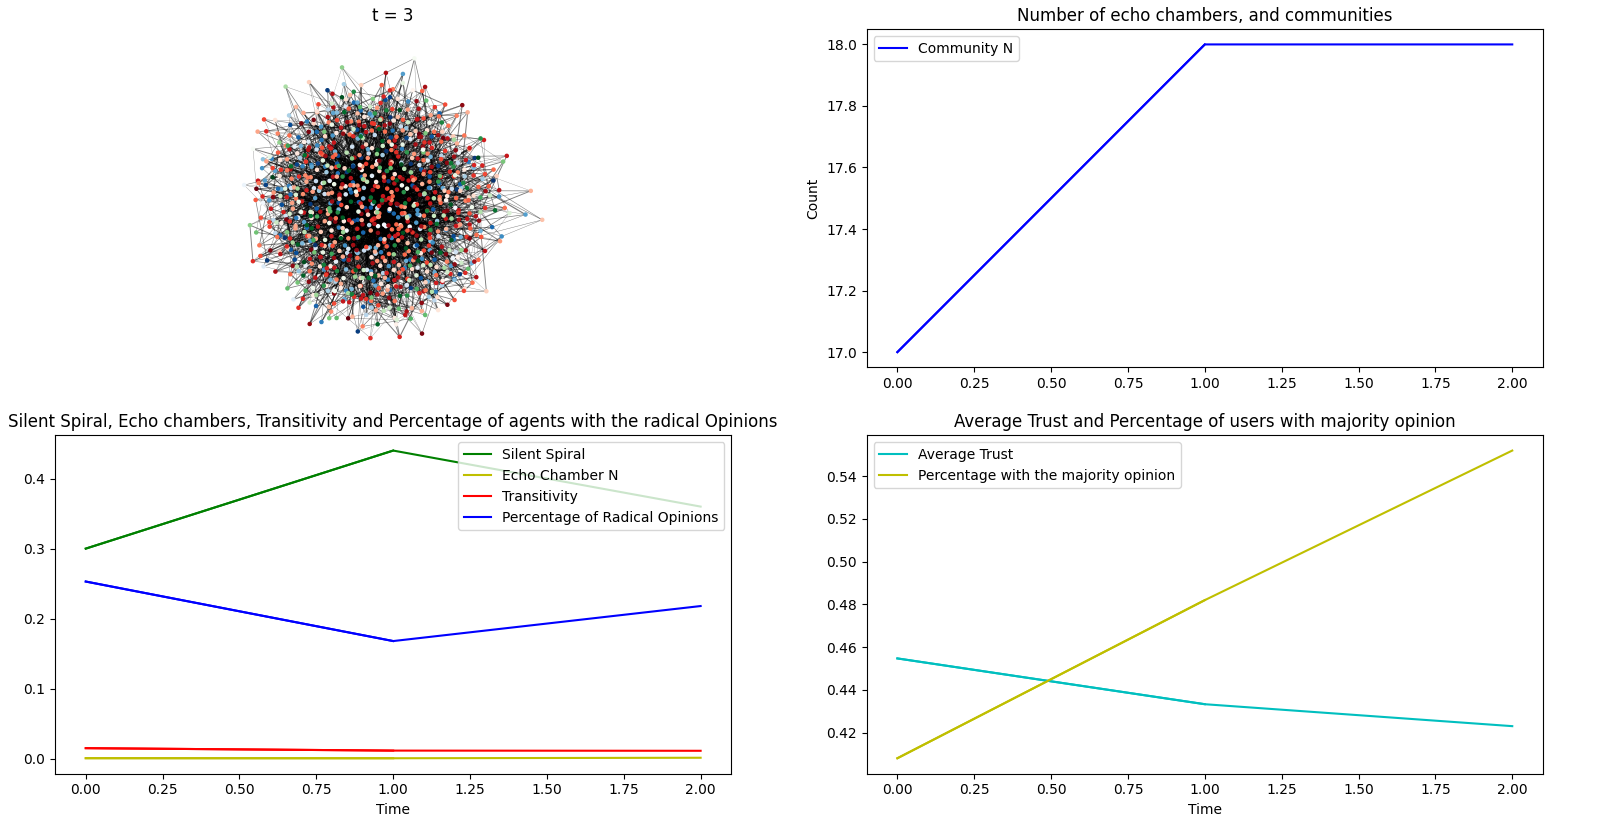
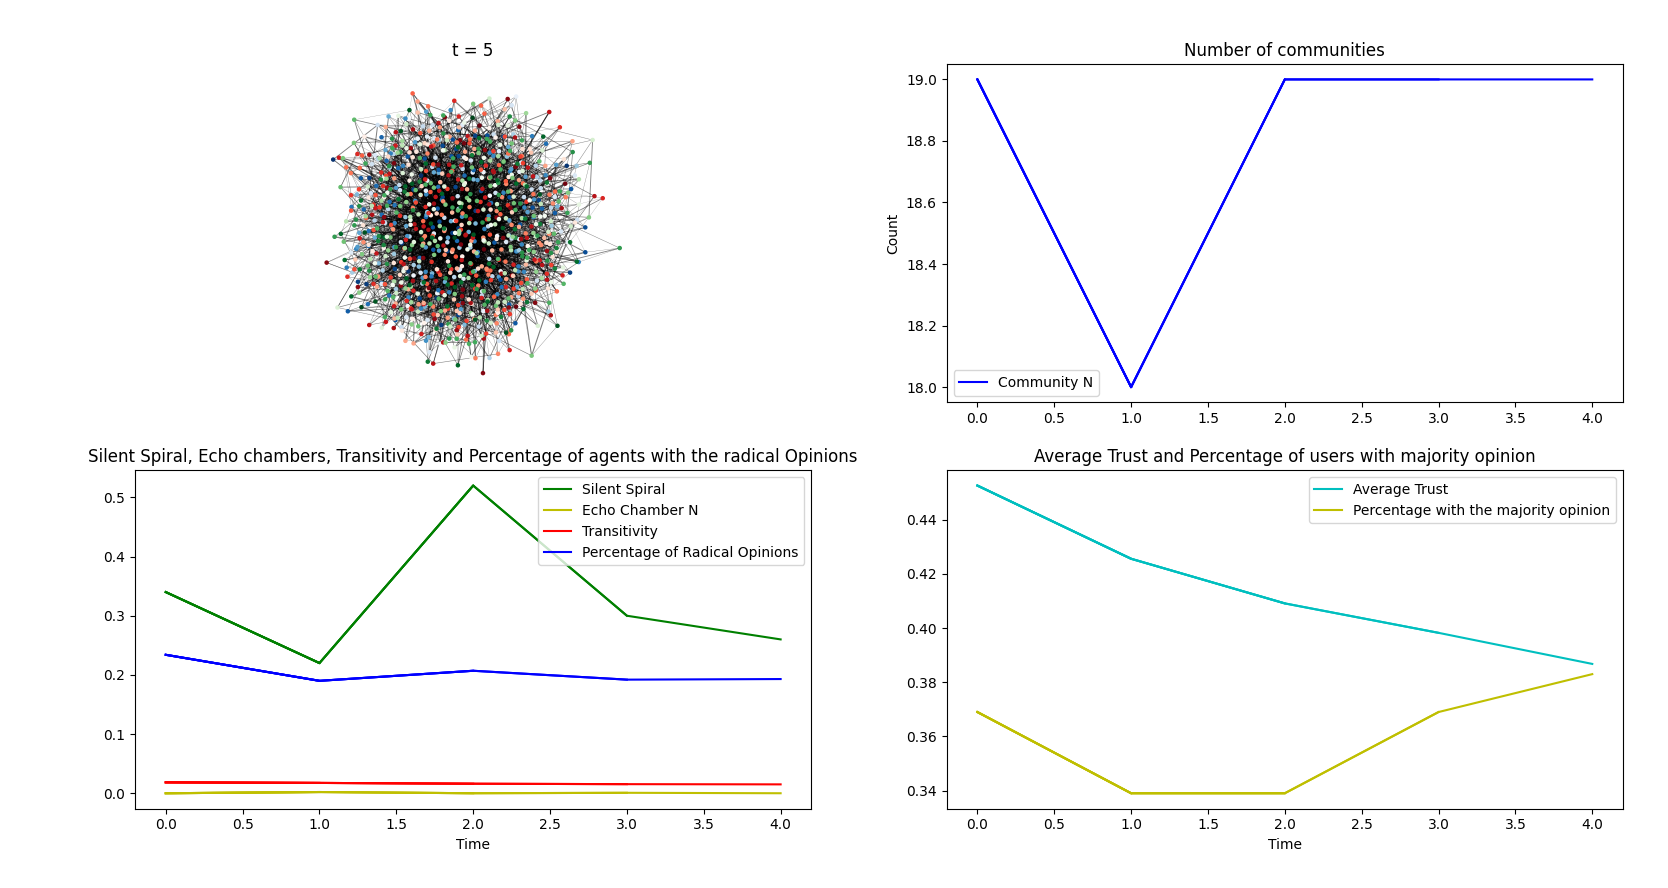
add finshing touches

diff --git a/visualization.py b/visualization.py
@@ -2,6 +2,7 @@
  A python module that hosts the code required to visualize the network. 
  The color of the node maps to a specific opinion whereas as
     the strength of the colour indicates the user's belief in that opinion
+    The strength of the edge's grey color indicates its  the trust between two agents 
 """
 from pylab import *
 import networkx as nx

diff --git a/model.py b/model.py
@@ -316,7 +316,7 @@ def observe():
 
     subplot(2, 2, 2)
     plot(range(time), community_no_data, label = 'Community N', color="b")
-    title("Number of echo chambers, and communities")
+    title("Number of communities")
     ylabel("Count")
     if time == 0:
         legend()

diff --git a/README.md b/README.md
@@ -75,7 +75,7 @@ Options:
 
 The graphical user interface has four main components:
 
-1. **Network visualisation (upper left)**: The upper left panel displays the network. The colour of each node indicates it's opinion where as the strength of the color shade indicates its preference. 
+1. **Network visualisation (upper left)**: The upper left panel displays the network. The colour of each node indicates it's opinion where as the strength of the color shade indicates its preference. The strength of the edge's grey color indicates its  the trust between two agents 
 2. **Number of communities (upper right)**: Time series graph displaying  communities over time t as defined by the Louvain algorithm.
 3. **Silent Spiral, Transitivity, Echo Chambers and percentage of agents with radical opinions (bottom left)**: Time series graph displaying the number of silent spirals, Transitivity, the percentage of echo chambers over all [cliques](https://networkx.org/documentation/stable/reference/algorithms/generated/networkx.algorithms.clique.enumerate_all_cliques.html#networkx.algorithms.clique.enumerate_all_cliques) and the percentage of agents with radical opinions over time t.
 4. **Average Trust,percentage of agents with majority opinion (bottom right)**: Time series graph displaying the average trust and percentage of agents with the majority opinion throughout the network. 
